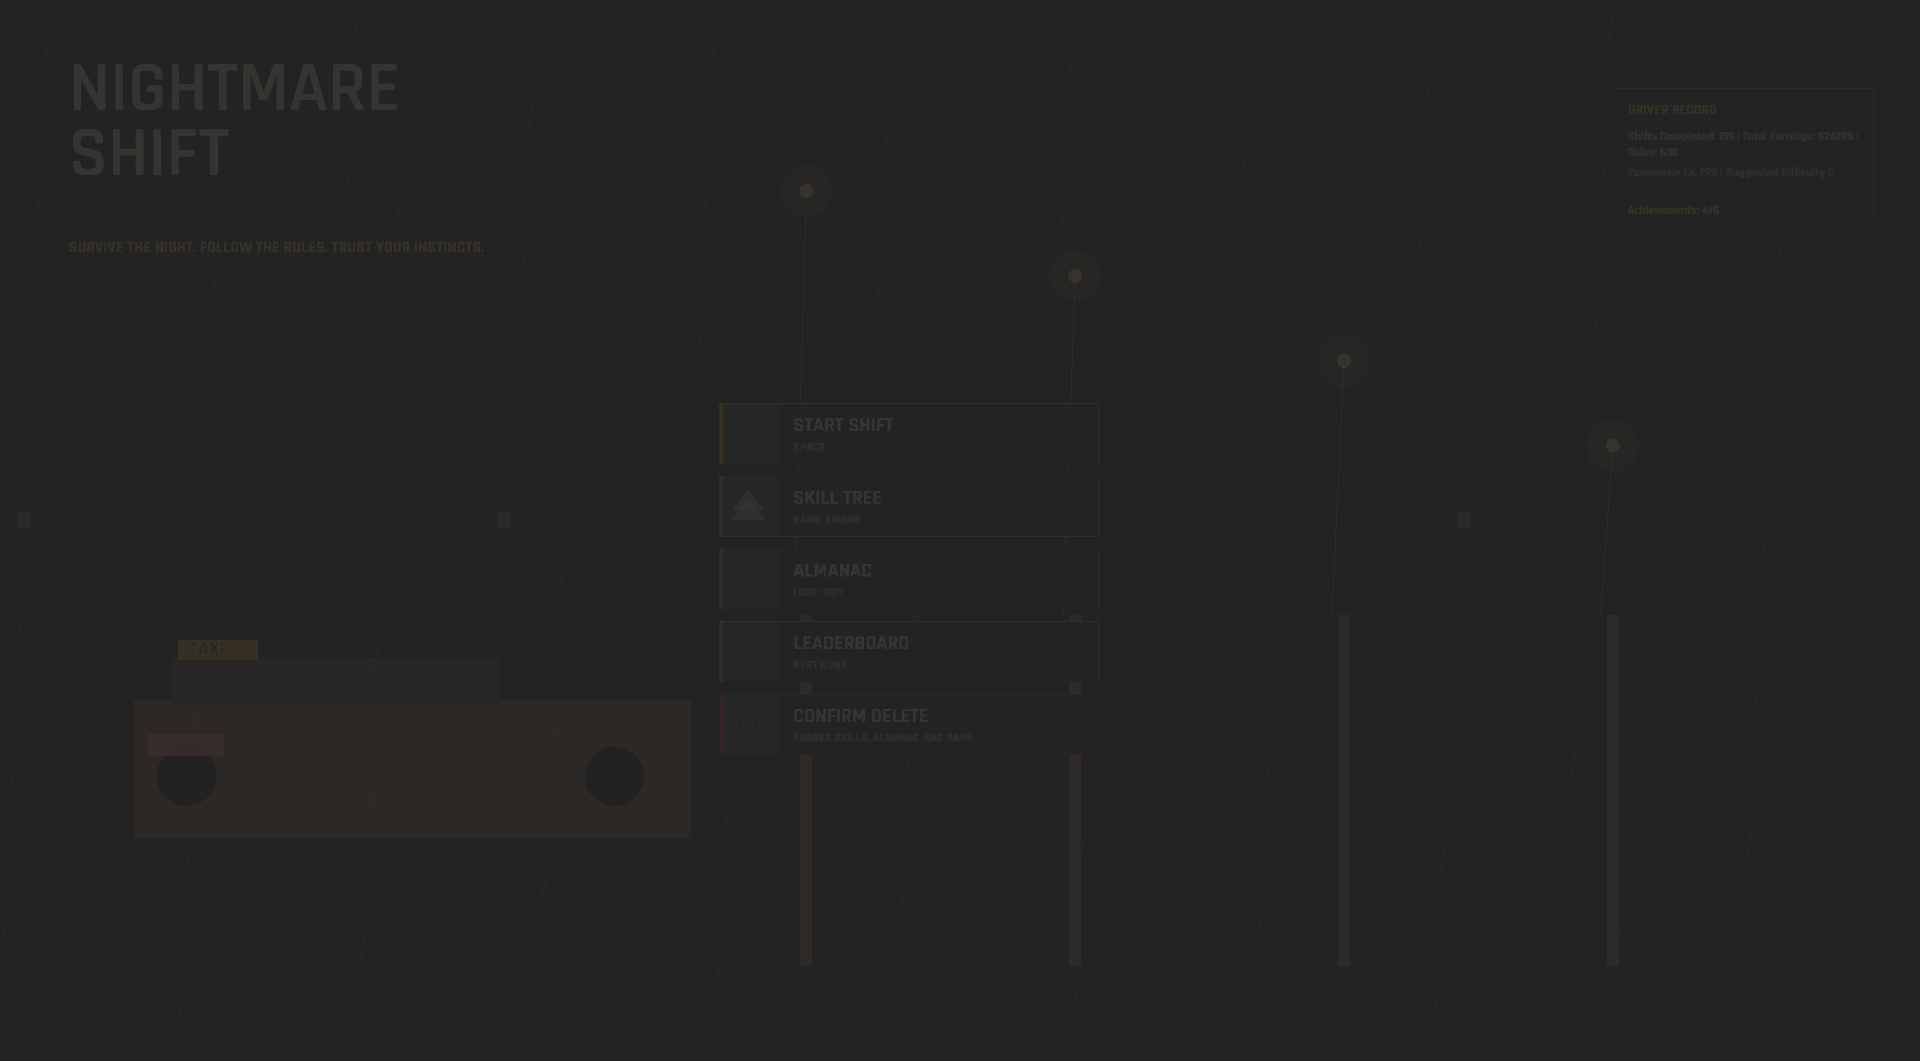
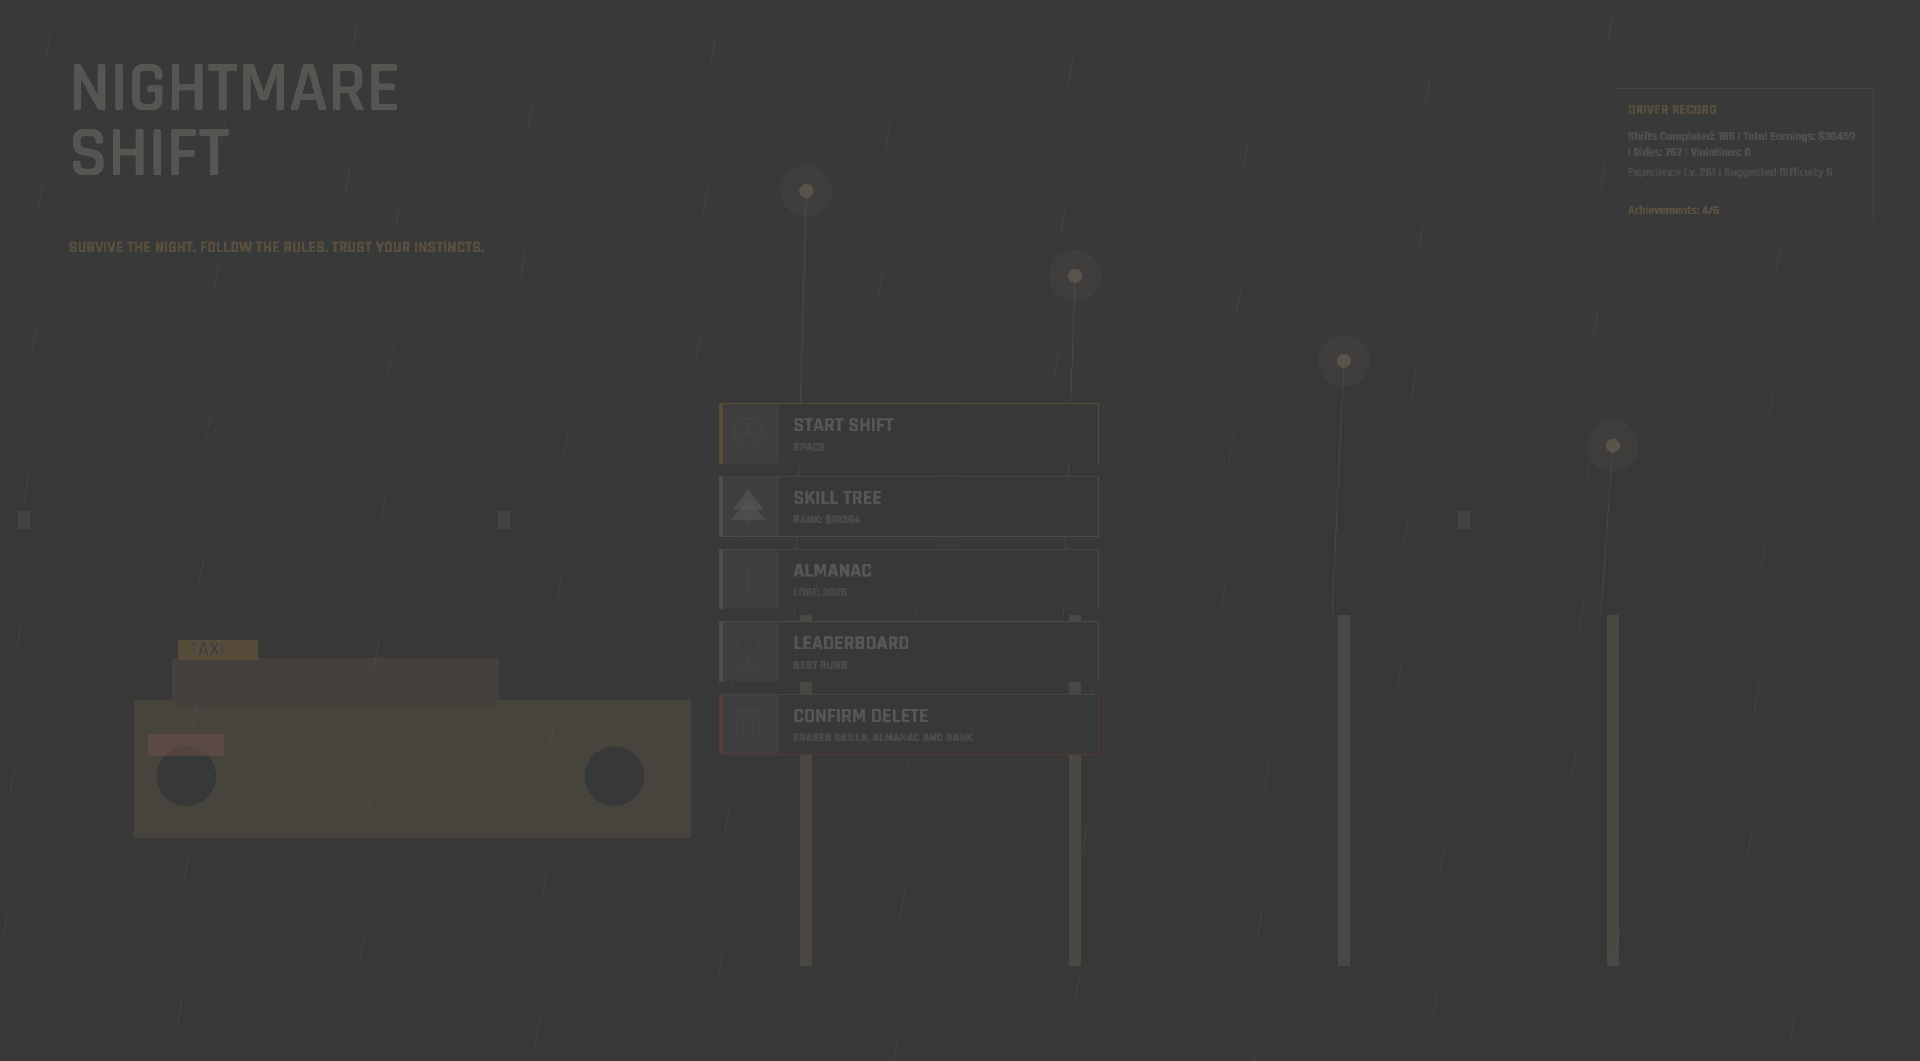
The driver's record finally counts the rules they broke (wire total_rules_violated; make the call site unable to lie)
`record_shift_completion` maintained five lifetime counters in one place and
`total_rules_violated` was not among them, so a stat the save has carried
since the port read zero however a night went — and nothing displayed it
either, which is why nobody noticed. The shift's own `rules_violated` was
sitting in the state being passed nowhere.

It accrues now, and the driver record on the main menu shows it beside the
other three lifetime counters. Existing saves start from zero rather than
backfilling, because the history was never recorded; a run of six bot shifts
took it from 0 to 4, which is the check that matters here.

The interesting part is how it is wired rather than that it is. Adding a
sixth argument would have left the same hazard that caused this: three `u32`s
in a row and a call site that has to get their order and their number right.
This is the third time this week a wire between two tested halves has been
the untested part, and twice I closed that by reading source in a test. So
instead the function takes the finished `GameState` and reads the three
numbers itself. There is nothing at the call site left to get wrong — no
argument to forget, none to transpose — which is a better outcome than a test
that notices afterwards. `survived` and `play_time` stay parameters because
neither lives on the shift.

`InventoryItem.backstoryItem` is gone as well. It is authored on none of the
twenty-five items and read by nothing, so it deserialized to false and
[…]

diff --git a/src/state/player_stats.rs b/src/state/player_stats.rs
@@ -107,18 +107,28 @@ impl PlayerStats {
         (self.total_shifts_completed / 10).min(4)
     }
 
-    /// Record a completed shift
+    /// Fold a finished shift into the lifetime counters.
+    ///
+    /// Takes the shift rather than its numbers. `total_rules_violated` was
+    /// the forgotten sibling here — five counters were maintained in this one
+    /// place and it was not among them, so a stat the save has carried since
+    /// the port read zero however a night went. Adding a sixth argument would
+    /// have left the same hazard in place: with three `u32`s in a row the call
+    /// site is where this goes wrong, and passing the state means there is
+    /// nothing there to get wrong. `survived` and `play_time` stay parameters
+    /// because neither lives on the shift.
     pub fn record_shift_completion(
         &mut self,
-        earnings: u32,
-        rides: u32,
+        shift: &crate::state::GameState,
         survived: bool,
         play_time: u32,
     ) {
+        let earnings = shift.earnings;
         self.total_shifts_completed += 1;
-        self.total_rides_completed += rides;
+        self.total_rides_completed += shift.rides_completed;
         self.total_earnings += earnings;
         self.total_play_time += play_time;
+        self.total_rules_violated += shift.rules_violated;
 
         if earnings > self.highest_shift_earnings {
             self.highest_shift_earnings = earnings;
@@ -368,6 +378,61 @@ impl PlayerStats {
 #[cfg(test)]
 mod tests {
     use super::*;
+    use crate::state::GameState;
+
+    /// A finished shift with the three numbers the lifetime counters read.
+    fn shift(earnings: u32, rides: u32, violations: u32) -> GameState {
+        let constants = crate::data::loader::load_constants();
+        let mut state = GameState::new(0.0, &constants.game_constants);
+        state.earnings = earnings;
+        state.rides_completed = rides;
+        state.rules_violated = violations;
+        state
+    }
+
+    /// A shift's violations have to reach the lifetime counter. This one
+    /// counter was left out of `record_shift_completion` while its five
+    /// siblings were maintained, so it read zero for every save ever written.
+    #[test]
+    fn a_shifts_violations_reach_the_lifetime_tally() {
+        let mut stats = PlayerStats::new();
+        assert_eq!(stats.total_rules_violated, 0);
+
+        stats.record_shift_completion(&shift(120, 3, 2), true, 40);
+        assert_eq!(stats.total_rules_violated, 2);
+
+        stats.record_shift_completion(&shift(90, 2, 1), false, 30);
+        assert_eq!(
+            stats.total_rules_violated, 3,
+            "the tally replaced the running total instead of adding to it"
+        );
+    }
+
+    /// A clean night must not inflate it, and the siblings must still move —
+    /// a counter that rises on every shift regardless would look maintained
+    /// while meaning nothing.
+    #[test]
+    fn a_clean_shift_adds_no_violations() {
+        let mut stats = PlayerStats::new();
+        stats.record_shift_completion(&shift(200, 5, 0), true, 55);
+
+        assert_eq!(stats.total_rules_violated, 0);
+        assert_eq!(stats.total_shifts_completed, 1);
+        assert_eq!(stats.total_rides_completed, 5);
+    }
+
+    /// The menu line has to have somewhere to put it. `replacen` on a string
+    /// with too few placeholders silently drops the value, so the count is
+    /// the only thing standing between a wired stat and an invisible one.
+    #[test]
+    fn the_menu_stat_line_has_a_slot_for_every_value() {
+        let stats = crate::data::loader::load_localization().ui.main_menu.stats;
+        assert_eq!(
+            stats.matches("{}").count(),
+            4,
+            "the menu fills four lifetime counters into {stats:?}"
+        );
+    }
 
     /// Saves written before the `Achievements` registry adoption stored
     /// `achievements` as a bare array. Loading one of those saves must not

diff --git a/src/data/inventory.rs b/src/data/inventory.rs
@@ -155,8 +155,8 @@ pub struct InventoryItem {
     pub id: String,
     pub name: String,
     pub source: String,
-    #[serde(rename = "backstoryItem")]
-    pub backstory_item: bool,
+    // `backstoryItem` is on no item in the catalogue and read by nothing,
+    // so it deserialized to false sixteen times a night and decided nothing.
     #[serde(rename = "type")]
     pub item_type: ItemType,
     #[serde(default)]
@@ -269,7 +269,6 @@ impl ItemCatalog {
             id: format!("{}_{}", name.replace(' ', "_"), current_time as u64),
             name: name.to_string(),
             source: source.to_string(),
-            backstory_item: false,
             item_type: template.item_type,
             rarity: template.rarity,
             description: template.description,

diff --git a/src/game/shift.rs b/src/game/shift.rs
@@ -184,12 +184,8 @@ impl Game {
             .map(|start| ((get_time() - start) / 60.0).max(0.0) as u32)
             .unwrap_or(480 - self.game_state.time_remaining);
 
-        self.player_stats.record_shift_completion(
-            self.game_state.earnings,
-            self.game_state.rides_completed,
-            actually_successful,
-            play_time,
-        );
+        self.player_stats
+            .record_shift_completion(&self.game_state, actually_successful, play_time);
         self.player_stats.session_start = None;
 
         // Generate bank balance from earnings (50% of earnings goes to bank)

diff --git a/src/screens/menu_screens/main_menu.rs b/src/screens/menu_screens/main_menu.rs
@@ -59,7 +59,8 @@ pub fn draw_main_menu(
             .stats
             .replacen("{}", &player_stats.total_shifts_completed.to_string(), 1)
             .replacen("{}", &player_stats.total_earnings.to_string(), 1)
-            .replacen("{}", &player_stats.total_rides_completed.to_string(), 1);
+            .replacen("{}", &player_stats.total_rides_completed.to_string(), 1)
+            .replacen("{}", &player_stats.total_rules_violated.to_string(), 1);
 
         let progression = format!(
             "Experience Lv. {} | Suggested Difficulty {}",
